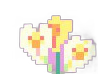
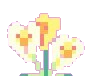
Updated game logic

diff --git a/userprofile.cpp b/userprofile.cpp
@@ -19,12 +19,22 @@ User::User(std::string _name, SDL_Renderer* &renderer, Gallery &gallery) {
                     {"MOON_RABBIT", MOON_RABBIT},
                     {"HEART_ORCHID", HEART_ORCHID},
                     {"GHOST_CAMPANULA", GHOST_CAMPANULA},
+                    {"ARIES", ARIES},
+                    {"DUCKLING", DUCKLING},
+                    {"LEO", LEO},
+                    {"NIGHT_RABBIT", NIGHT_RABBIT},
+                    {"CHICKEN_FLOWER", CHICKEN_FLOWER},
                     {"NONE", NONE}};
 
     flowerToName = {{PUPPY, "PUPPY"},
                     {MOON_RABBIT, "MOON_RABBIT"},
                     {HEART_ORCHID, "HEART_ORCHID"},
                     {GHOST_CAMPANULA, "GHOST_CAMPANULA"},
+                    {ARIES, "ARIES"},
+                    {DUCKLING, "DUCKLING"},
+                    {LEO, "LEO"},
+                    {NIGHT_RABBIT, "NIGHT_RABBIT"},
+                    {CHICKEN_FLOWER, "CHICKEN_FLOWER"},
                     {NONE, "NONE"}};
 
     nameToPot = {{"POT", POT},
@@ -41,6 +51,8 @@ User::User(std::string _name, SDL_Renderer* &renderer, Gallery &gallery) {
 
     potChoosingMenu = loadMenuFromFile("data/pot_menu.txt", renderer, gallery);
     potChoosingMenu.updateActivation(0, 6);
+
+    floorRequirements = {0, 0, 1, 2, 3, 5, 8, 13, 21, 34, 55, 89, 144, 233, 377, 610, 987, 1597, 2584, 1000000000};
 }
 
 void User::createProfile() {
@@ -209,7 +221,7 @@ bool User::gatherFlower(int mouseX, int mouseY) {
         if (garden[i].isInsideFloor(mouseX, mouseY)) {
             PictureID flower = garden[i].gatherFlower(mouseX, mouseY);
             if (flower != NONE) {
-                flowerData[flower]++;
+                flowerData[flower] += 2;
                 return true;
             }
             return false;
@@ -220,7 +232,21 @@ bool User::gatherFlower(int mouseX, int mouseY) {
 
 bool User::addingNewFloor(int mouseX, int mouseY) {
     if (garden[floor].isInsideFloor(mouseX, mouseY)) {
-        std::cout << 1 << std::endl;
+        if (floor == (int)floorRequirements.size()) {
+            std::cout << "What????" << std::endl;
+            exit(0);
+        }
+
+        for (auto &x : flowerData) {
+            if (x.second < floorRequirements[floor]) {
+                return false;
+            }
+        }    
+
+        for (auto &x : flowerData) {
+            x.second -= floorRequirements[floor];
+        }
+    
         garden.emplace_back(CloudFloor({50, 0 - 210 * 1, 900, 210}));
         garden[floor - 1].updateCloudImage(NORMAL_CLOUD_FLOOR);
         garden[floor].updateCloudImage(TOP_CLOUD_FLOOR);

diff --git a/gallery.cpp b/gallery.cpp
@@ -67,13 +67,20 @@ void Gallery::loadGamePictures() {
 
     pictures.push_back(loadTextureFromImage("image/menu_background", 1, ".jpg", SDL_BLENDMODE_BLEND));
     pictures.push_back(loadTextureFromImage("image/button", 1, ".png", SDL_BLENDMODE_BLEND));
+    pictures.push_back(loadTextureFromImage("image/prompt", 1, ".png", SDL_BLENDMODE_BLEND));
     
     // loading flowers
     pictures.push_back(loadTextureFromImage("image/flower/puppy", 1, ".png", SDL_BLENDMODE_BLEND));
     pictures.push_back(loadTextureFromImage("image/flower/moon_rabbit", 1, ".png", SDL_BLENDMODE_BLEND));
     pictures.push_back(loadTextureFromImage("image/flower/heart_orchid", 1, ".png", SDL_BLENDMODE_BLEND));
     pictures.push_back(loadTextureFromImage("image/flower/ghost_campanula", 1, ".png", SDL_BLENDMODE_BLEND));
+    pictures.push_back(loadTextureFromImage("image/flower/aries", 1, ".png", SDL_BLENDMODE_BLEND));
+    pictures.push_back(loadTextureFromImage("image/flower/duckling", 1, ".png", SDL_BLENDMODE_BLEND));
+    pictures.push_back(loadTextureFromImage("image/flower/leo", 1, ".png", SDL_BLENDMODE_BLEND));
+    pictures.push_back(loadTextureFromImage("image/flower/night_rabbit", 1, ".png", SDL_BLENDMODE_BLEND));
+    pictures.push_back(loadTextureFromImage("image/flower/chicken_flower", 1, ".png", SDL_BLENDMODE_BLEND));
     pictures.push_back(loadTextureFromImage("image/flower/seedling", 1, ".png", SDL_BLENDMODE_BLEND));
+
     
     // loading pots
     pictures.push_back(loadTextureFromImage("image/pot/pot", 1, ".png", SDL_BLENDMODE_BLEND));

diff --git a/data/generator.cpp b/data/generator.cpp
@@ -3,21 +3,23 @@
 #include <cstring>
 using namespace std;
 
-string flower[] = {"PUPPY", "MOON_RABBIT", "HEART_ORCHID", "GHOST_CAMPANULA"};
+string flower[] = {"PUPPY", "MOON_RABBIT", "HEART_ORCHID", "GHOST_CAMPANULA", 
+                   "ARIES", "DUCKLING", "LEO", "NIGHT_RABBIT", "CHICKEN_FLOWER"};
 
 int main() {
     freopen("flower_menu.txt", "w", stdout);
-    cout << 10 << endl;
-    for (int i = 0; i < 4; i++) {
-        cout << flower[i % 4] << endl;
+    int len = 9;
+    cout << len << endl;
+    for (int i = 0; i < len; i++) {
+        cout << flower[i % len] << endl;
         cout << 200 + i * 100 << " " << 475 << " " << 100 << " " << 100 << endl;
         
-        cout << flower[i % 4] << endl;
+        cout << flower[i % len] << endl;
         cout << 200 + i * 100 << " " << 475 << " " << 100 << " " << 100 << endl;
         cout << 275 + i * 100 << " " << 575 << " " << 25 << " " << 25 << endl;
         cout << 255 << " " << 255 << " " << 255 << endl;
 
-        cout << flower[i % 4] << endl;
+        cout << flower[i % len] << endl;
         cout << 200 + i * 100 << " " << 475 << " " << 100 << " " << 100 << endl;
         cout << 275 + i * 100 << " " << 575 << " " << 25 << " " << 25 << endl;
         cout << 255 << " " << 255 << " " << 255 << endl;

diff --git a/menu.cpp b/menu.cpp
@@ -27,6 +27,11 @@ Textbox createTextboxFromFile(std::ifstream &fin) {
                          {"MOON_RABBIT", MOON_RABBIT},
                          {"HEART_ORCHID", HEART_ORCHID},
                          {"GHOST_CAMPANULA", GHOST_CAMPANULA},
+                         {"ARIES", ARIES},
+                         {"DUCKLING", DUCKLING},
+                         {"LEO", LEO},
+                         {"NIGHT_RABBIT", NIGHT_RABBIT},
+                         {"CHICKEN_FLOWER", CHICKEN_FLOWER},
                          {"SEEDLING", SEEDLING},
                          {"POT", POT},
                          {"NORMAL_FRIEND_BUTTON", NORMAL_FRIEND_BUTTON},

diff --git a/include/userprofile.h b/include/userprofile.h
@@ -1,4 +1,6 @@
 #pragma once
+#ifndef USERPROFILE_H
+#define USERPROFILE_H
 
 // Custom library
 #include <cloud.h>
@@ -25,6 +27,8 @@ private:
 
     std::map <PictureID, int> flowerData, potData;
     std::map <PictureID, Uint64> growthTimeData;
+
+    std::vector <int> floorRequirements;
 public:
     Menu flowerChoosingMenu, potChoosingMenu;
     
@@ -52,3 +56,5 @@ public:
     void renderPotChoosingMenu(SDL_Renderer* &renderer, Gallery &gallery);
     void renderFlowerChoosingMenu(SDL_Renderer* &renderer, Gallery &gallery);
 };
+
+#endif

diff --git a/mainloop.cpp b/mainloop.cpp
@@ -39,6 +39,11 @@ MainLoop::MainLoop(SDL_Renderer* &renderer, Gallery &gallery) {
                {"MOON_RABBIT", MOON_RABBIT},
                {"HEART_ORCHID", HEART_ORCHID},
                {"GHOST_CAMPANULA", GHOST_CAMPANULA},
+               {"ARIES", ARIES},
+               {"DUCKLING", DUCKLING},
+               {"LEO", LEO},
+               {"NIGHT_RABBIT", NIGHT_RABBIT},
+               {"CHICKEN_FLOWER", CHICKEN_FLOWER},
                {"NONE", NONE}};
     
     pots = {{"POT", POT},

diff --git a/include/mainloop.h b/include/mainloop.h
@@ -1,4 +1,6 @@
 #pragma once
+#ifndef MAINLOOP_H
+#define MAINLOOP_H
 // Custom library
 #include <constants.h>
 #include <utils.h>
@@ -36,3 +38,5 @@ public:
     void handleUserInput(SDL_Event e, SDL_Renderer* &renderer, Gallery &gallery);
     GameState getGameState() { return gameState; }
 };
+
+#endif

diff --git a/include/gallery.h b/include/gallery.h
@@ -17,10 +17,16 @@
 enum PictureID {
     MENU_BACKGROUND = 0,
     BUTTON,
+    PROMPT,
     PUPPY,
     MOON_RABBIT,
     HEART_ORCHID,
     GHOST_CAMPANULA,
+    ARIES,
+    DUCKLING,
+    LEO,
+    NIGHT_RABBIT,
+    CHICKEN_FLOWER,
     SEEDLING,
     POT,
     NORMAL_FRIEND_BUTTON,

diff --git a/include/menu.h b/include/menu.h
@@ -1,4 +1,6 @@
 #pragma once
+#ifndef MENU_H
+#define MENU_H
 // Custom library
 #include <constants.h>
 #include <utils.h>
@@ -107,3 +109,5 @@ public:
 };
 
 Textbox createTextboxFromFile(std::ifstream &fin);
+
+#endif

diff --git a/README.md b/README.md
@@ -1,1 +1,17 @@
 # Sky-Garden
+
+To add a flower to the game, we need to modify:
+- The nameToFlower and flowerToName map in function User::User class user in userprofile.cpp. (Create a PictureID with the name and map)
+- stringToPictureID in function createTextboxFromFile in menu.cpp. (Create a PictureID with the name and map)
+- map flowers in function MainLoop::MainLoop in mainloop.cpp. (Create a PictureID with the name and map)
+- User data in folder data (file with _data in name). (Add the name of the flower)
+- flower_menu.txt (using the generator.cpp file).
+To add a pot to the game, we need to modify:
+- The nameToPot and potToName map in function User::User in class user in userprofile.cpp. (Create a PictureID with the name and map)
+- stringToPictureID in function createTextboxFromFile in menu.cpp. (Create a PictureID with the name and map)
+- map pots in function MainLoop::MainLoop in mainloop.cpp. (Create a PictureID with the name and map)
+- User data in folder data (file with _data in name). (Add the name of the pot)
+- pot_menu.txt (using the generator.cpp file).
+To add an item to the game, we need to modify:
+- map items in function MainLoop::MainLoop in mainloop.cpp.
+- Modify the data/gardening_tool.txt.
